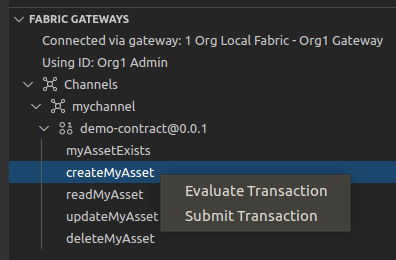
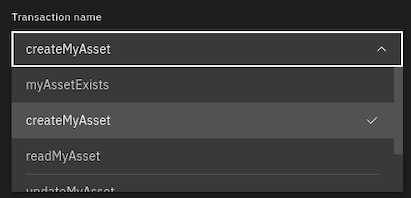
Updated transaction tutorials

diff --git a/packages/blockchain-extension/resources/tutorials/new-tutorials/basic-tutorials/a4.md b/packages/blockchain-extension/resources/tutorials/new-tutorials/basic-tutorials/a4.md
@@ -93,76 +93,93 @@ The VS Code extension allows you to both submit and evaluate transactions. 
 We will start by evaluating the transaction 'myAssetExists'.
 
 <img src="./images/bullet.png" alt="[]"></img> &nbsp;&nbsp;&nbsp;&nbsp; `A4.6`: &nbsp;&nbsp;&nbsp;&nbsp;
-Right-click 'myAssetExists' and select 'Evaluate Transaction'.
+Click 'myAssetExists' which will open the Transaction View.
 
 <img src="./images/a4.6.png" alt="Connected Fabric Gateway"></img>
 
-Transaction inputs are entered using JSON.
 
 <img src="./images/bullet.png" alt="[]"></img> &nbsp;&nbsp;&nbsp;&nbsp; `A4.7`: &nbsp;&nbsp;&nbsp;&nbsp;
-Replace the input parameters with `["001"]` and press Enter.
+The Transaction View allows the transaction to be prepared before being submitted or evaluated.
 
-<img src="./images/a4.7.png" alt="Input parameters to myAssetExists"></img>
+<img src="./images/a4.7.png" alt="Transaction View for myAssetExists"></img>
 
-Transient data is an advanced feature that we will cover in a later tutorial; we will not use it here.
+On the Transaction View, the *Transaction name* can be selected from the dropdown list and the *Transaction arguments* supplied. Transient data is an advanced feature that we will cover in a later tutorial and can be ignored. We have only 1 peer in the local fabric so target specific peer can be ignored too. 
 
-<img src="./images/bullet.png" alt="[]"></img> &nbsp;&nbsp;&nbsp;&nbsp; `A4.8`: &nbsp;&nbsp;&nbsp;&nbsp;
-Press Enter again to accept the default transient data parameters.
+Ensure that *myAssetExists* is selected as the Transaction name, specify `"001"` for myAssetId in the JSON object pair.
 
-<img src="./images/a4.8-a9.19.png" alt="Default transient data"></img>
+Now click *Evaluate transaction*
 
 The demo-contract smart contract will now run on the peer to generate a myAssetExists transaction response using the transaction input "001". As you will recall from the smart contract code, the contract will return true if the business object with key "001" exists in the state database, or false otherwise.
 
-When the method completes, the Output tab will show the results of the evaluation.
+The Transaction view will be used several times in this tutorial and if it is closed or hidden at any point, just click any of the transactions in the Fabric Gateways view to bring it back.
+
+<img src="./images/bullet.png" alt="[]"></img> &nbsp;&nbsp;&nbsp;&nbsp; `A4.8`: &nbsp;&nbsp;&nbsp;&nbsp;Review the output
+
+<img src="./images/a4.8.png" alt="Transaction output for myAssetExixts"></img>
+
+When the method completes, the Transaction output field will show the results of the evaluation, and as expected the result is false.
+
+The result of the transaction will also be shown in the output view at the bottom of the screen.
 
 <img src="./images/bullet.png" alt="[]"></img> &nbsp;&nbsp;&nbsp;&nbsp; `A4.9`: &nbsp;&nbsp;&nbsp;&nbsp;
 Move the mouse over the "Successfully evaluated transaction" notification to reveal the close icon, and click it to close it.
 
 <img src="./images/a4.9.1.png" alt="Evaluation notification"></img>
 
-If you review the output from the command you can see the results of evaluating the transaction. In this case, the return value is false, because the key does not exist in the state database.
-
-<img src="./images/a4.9.2.png" alt="Return value is false"></img>
-
 We will now create the business object with key "001". This time, we will add a new transaction to the ledger, so we need to submit a transaction rather than evaluate one.
 
 <img src="./images/bullet.png" alt="[]"></img> &nbsp;&nbsp;&nbsp;&nbsp; `A4.10`: &nbsp;&nbsp;&nbsp;&nbsp;
-Right-click 'createMyAsset' and select 'Submit Transaction'.
+On the Transaction view click on the dropdown for Transaction Name and select createMyAsset.
 
-<img src="./images/a4.10.png" alt="Submit createMyAsset"></img>
+<img src="./images/a4.10.png" alt="Transaction name createMyAsset"></img>
 
-As you may recall, the createMyAsset transaction takes two parameters: a key and its associated value.
+As you may recall, the createMyAsset transaction takes two arguments: a key and its associated value.
 
 <img src="./images/bullet.png" alt="[]"></img> &nbsp;&nbsp;&nbsp;&nbsp; `A4.11`: &nbsp;&nbsp;&nbsp;&nbsp;
-Replace the input parameters with `["001","Mona Lisa"]` and press Enter.
+Replace the Transaction arguments with 
+```
+{
+  "myAssetId": "001",
+  "value": "Mona Lisa"
+}
+```
+Take care with the syntax of the JSON argument pairs.
 
-<img src="./images/a4.11.png" alt="Creating an asset"></img>
+<img src="./images/a4.11.png" alt="Transaction arguments"></img>
 
 <img src="./images/bullet.png" alt="[]"></img> &nbsp;&nbsp;&nbsp;&nbsp; `A4.12`: &nbsp;&nbsp;&nbsp;&nbsp;
-Press Enter a second time to accept the transient data defaults and submit the transaction.
+Check the Transaction name and the Transaction arguments, then click Submit transaction.
 
-<img src="./images/a4.8-a9.19.png" alt="Default transient data"></img>
+The Transaction output on the Transaction View will show that no value was returned, and the output log at the bottom of the screen shows that the transaction was successful.
 
-Review the output to ensure that the transaction was successful.
+<img src="./images/a4.12.0.png" alt="Review the createMyAsset Transaction output"></img>
 
-<img src="./images/a4.12.png" alt="Review the createMyAsset output"></img>
+<img src="./images/a4.12.png" alt="Review the createMyAsset log output"></img>
 
 <img src="./images/bullet.png" alt="[]"></img> &nbsp;&nbsp;&nbsp;&nbsp; `A4.13`: &nbsp;&nbsp;&nbsp;&nbsp;
-Evaluate the "myAssetExists" transaction a second time with the "001" key to show that the asset now exists.
+Still on the Transaction view, select "myAssetExists" as the Transaction name, specify `"001"` for myAssetId in the JSON arguments and click Evaluate transaction.
 
-<img src="./images/a4.13.png" alt="Review the myAssetExists output"></img>
+<img src="./images/a4.13.png" alt="Evaluate transaction myAssetExists "></img>
 
-The returned value is now 'true'.
+The returned value seen in the Transaction output is now 'true'.
+
+<img src="./images/a4.13.1.png" alt="Evaluate transaction myAssetExists Transaction output"></img>
 
 <img src="./images/bullet.png" alt="[]"></img> &nbsp;&nbsp;&nbsp;&nbsp; `A4.14`: &nbsp;&nbsp;&nbsp;&nbsp;
-Submit the "updateMyAsset" transaction to change the value of the "001" key to "The Hay Wain".
+Submit the "updateMyAsset" transaction to change the value of the "001" key to "The Hay Wain". The JSON Transaction arguments will be:
+```
+{
+  "myAssetId": "001",
+  "value": "The Hay Wain"
+}
+```
 
-<img src="./images/a4.14.png" alt="Review the updateMyAsset output"></img>
-
+No value will be returned from the transaction.
+ 
 <img src="./images/bullet.png" alt="[]"></img> &nbsp;&nbsp;&nbsp;&nbsp; `A4.15`: &nbsp;&nbsp;&nbsp;&nbsp;
-Evaluate the "readMyAsset" transaction to return the updated value of the "001" key.
+Evaluate the "readMyAsset" transaction to return the updated asset. Specify `"001"` for myAssetId.
 
-<img src="./images/a4.15.png" alt="Review the readMyAsset output"></img>
+<img src="./images/a4.15.png" alt="Review the readMyAsset Transaction output"></img>
 
 <img src="./images/bullet.png" alt="[]"></img> &nbsp;&nbsp;&nbsp;&nbsp; `A4.16`: &nbsp;&nbsp;&nbsp;&nbsp;
 Finally, submit the "deleteMyAsset" transaction to delete the "001" asset from the world state.

diff --git a/packages/blockchain-extension/resources/tutorials/new-tutorials/basic-tutorials/a9.md b/packages/blockchain-extension/resources/tutorials/new-tutorials/basic-tutorials/a9.md
@@ -154,19 +154,17 @@ Now that we have successfully subscribed to the 'myEvent' topic, we'll be able t
 In order to generate an event, we'll need to generate a createMyAsset transaction.
 
 <img src="./images/bullet.png" alt="[]"></img> &nbsp;&nbsp;&nbsp;&nbsp; `A9.17`: &nbsp;&nbsp;&nbsp;&nbsp;
-In the Fabric Gateways view, right-click the 'createMyAsset' transaction and select 'Submit Transaction'.
+Switch to the Transaction view, or Click on the *createMyAsset* transaction in the Gateway to open a new Transaction view.  
 
-<img src="./images/a9.17-a9.28.png" alt="Submit createMyAsset"></img>
+<img src="./images/a9.17.png" alt="Transaction view"></img>
 
 <img src="./images/bullet.png" alt="[]"></img> &nbsp;&nbsp;&nbsp;&nbsp; `A9.18`: &nbsp;&nbsp;&nbsp;&nbsp;
-Replace the input parameters with `["004","Dogs Playing Poker"]` and press Enter.
+Select createMyAsset as the Transaction name and supply the JSON Transaction arguments `{"myAssetId": "004","value": "Dogs Playing Poker"}`. 
 
 <img src="./images/a9.18.png" alt="Creating asset 004"></img>
 
 <img src="./images/bullet.png" alt="[]"></img> &nbsp;&nbsp;&nbsp;&nbsp; `A9.19`: &nbsp;&nbsp;&nbsp;&nbsp;
-Press Enter a second time to accept the transient data defaults and submit the transaction.
-
-<img src="./images/a4.8-a9.19.png" alt="Default transient data"></img>
+There is no transient data and no peer selection required, just click Submit transaction.
 
 <img src="./images/bullet.png" alt="[]"></img> &nbsp;&nbsp;&nbsp;&nbsp; `A9.20`: &nbsp;&nbsp;&nbsp;&nbsp;
 Review the output of this transaction.
@@ -291,15 +289,13 @@ The client application will now run: the application will connect to the gateway
 Note that we now have *two* subscribers: the IBM Blockchain Platform extension subscriber that we configured earlier, and our new client application. We will now test that notifications can be received by both of them.
 
 <img src="./images/bullet.png" alt="[]"></img> &nbsp;&nbsp;&nbsp;&nbsp; `A9.28`: &nbsp;&nbsp;&nbsp;&nbsp;
-Switch to the IBM Blockchain Platform sidebar, and in the Fabric Gateways view right click the 'createMyAsset' transaction and select 'Submit transaction'.
+Switch to the Transaction view and submit a createMyAsset Transaction with Transaction arguments `{"myAssetId": "005","value": "The Starry Night"}`. As before there is no transient data or peer selection.
 
-<img src="./images/a9.17-a9.28.png" alt="Submit createMyAsset"></img>
+<img src="./images/a9.28.png" alt="Submit createMyAsset 005"></img>
 
-<img src="./images/bullet.png" alt="[]"></img> &nbsp;&nbsp;&nbsp;&nbsp; `A9.29`: &nbsp;&nbsp;&nbsp;&nbsp;Replace the input parameters with ``["005","The Starry Night"]``. As before, press Enter to confirm and Enter again to skip transient data.
+The transaction will be submitted and the Output view updated with the log of the transaction. Note that it includes the new event, which has been received and logged by the first subscriber (IBM Blockchain Platform):
 
-<img src="./images/a9.29.1.png" alt="create asset 005"></img>
-
-The transaction will be submitted and the Output view  updated with the log of the transaction. Note that it includes the new event, which has been received and logged by the first subscriber (IBM Blockchain Platform):
+<img src="./images/bullet.png" alt="[]"></img> &nbsp;&nbsp;&nbsp;&nbsp; `A9.29`: &nbsp;&nbsp;&nbsp;&nbsp;Review the Output.
 
 <img src="./images/a9.29.2.png" alt="new event caught in output log"></img>
 

diff --git a/packages/blockchain-extension/resources/tutorials/new-tutorials/basic-tutorials/a6.md b/packages/blockchain-extension/resources/tutorials/new-tutorials/basic-tutorials/a6.md
@@ -198,16 +198,18 @@ If you have completed all the previous steps in this set of tutorials, your bloc
 Therefore, to prove that we can return multiple values from our new transaction, we will first create a new asset '003'.
 
 <img src="./images/bullet.png" alt="[]"></img> &nbsp;&nbsp;&nbsp;&nbsp; `A6.18`: &nbsp;&nbsp;&nbsp;&nbsp;
-Right-click the *createMyAsset* transaction and select 'Submit Transaction'. Create an asset with the input parameters `["003","The Scream"]`. There is no transient data.
+If you have an existing Transaction View open - close it now.  Click on the *createMyAsset* transaction to open a new updated Transaction view.  Submit a transaction for createMyAsset and supply the JSON Transaction arguments `{"myAssetId": "003","value": "The Scream"}`. There is no transient data and no peer selection required.
+
+The Transaction arguments presented by the Transaction view are formatted with 1 pair per line, but the whitespace is not important and they can be supplied in a single line. 
 
 With the new asset created, we will now try out the queryAllAssets transaction. It is a read-only transaction and so we can invoke it using the *evaluate* option.
 
 <img src="./images/bullet.png" alt="[]"></img> &nbsp;&nbsp;&nbsp;&nbsp; `A6.19`: &nbsp;&nbsp;&nbsp;&nbsp;
-Right-click the *queryAllAssets* transaction and select 'Evaluate Transaction'. Press Enter twice to select the defaults for both the input parameters (there are none) and transient data.
+Select *queryAllAssets* from the Transaction name dropdown, leave the Transaction arguments empty `{}` and click Evaluate transaction. 
 
-You will see the results of the transaction displayed in the Output view; particularly, records for asset '002' and '003'. (Close the "Successfully submitted transaction" notifications if the output is obscured.)
+You will see the results of the transaction displayed in the Transaction output field; particularly, records for asset '002' and '003'. (Output is also available at bottom of the screen.)
 
-<img src="./images/a6.19.png" alt="Output from queryAllAssets"></img>
+<img src="./images/a6.19.png" alt="Transaction Output from queryAllAssets"></img>
 
 Congratulations, you queried all the assets on the ledger!
 
